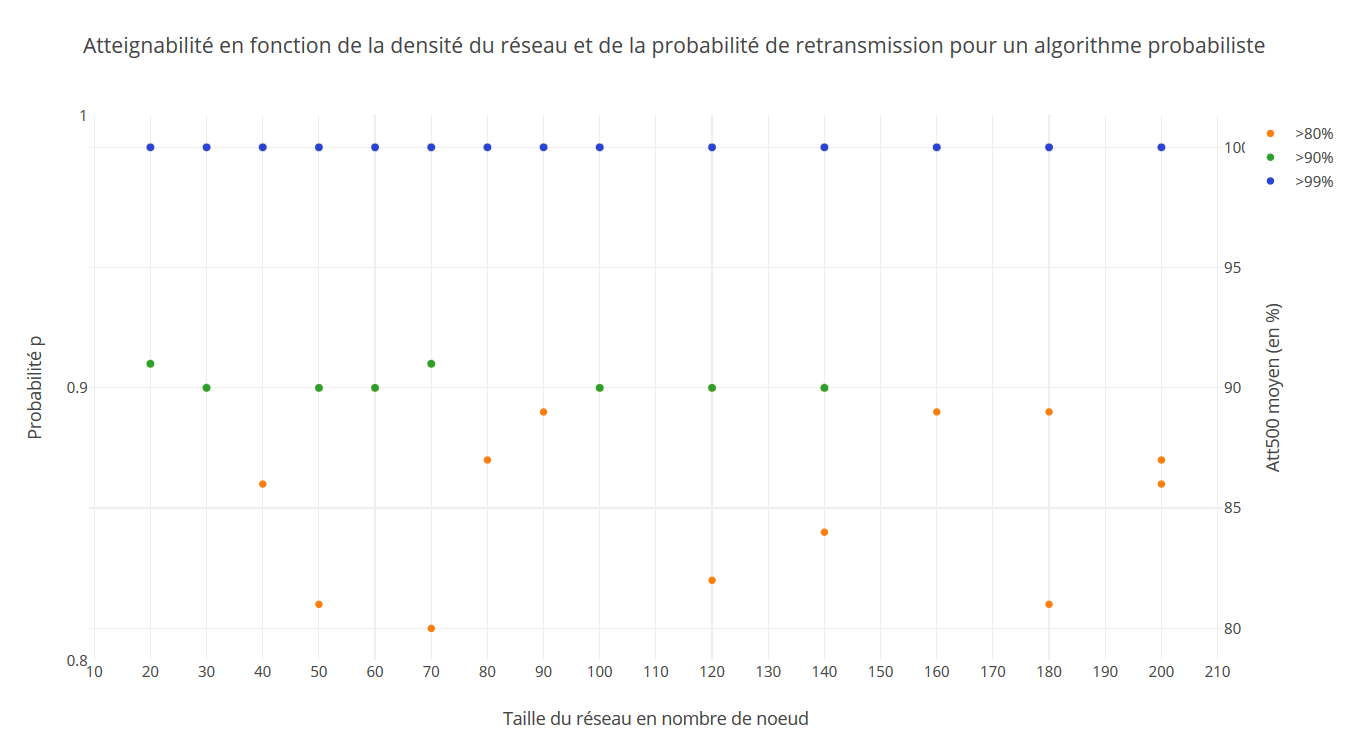
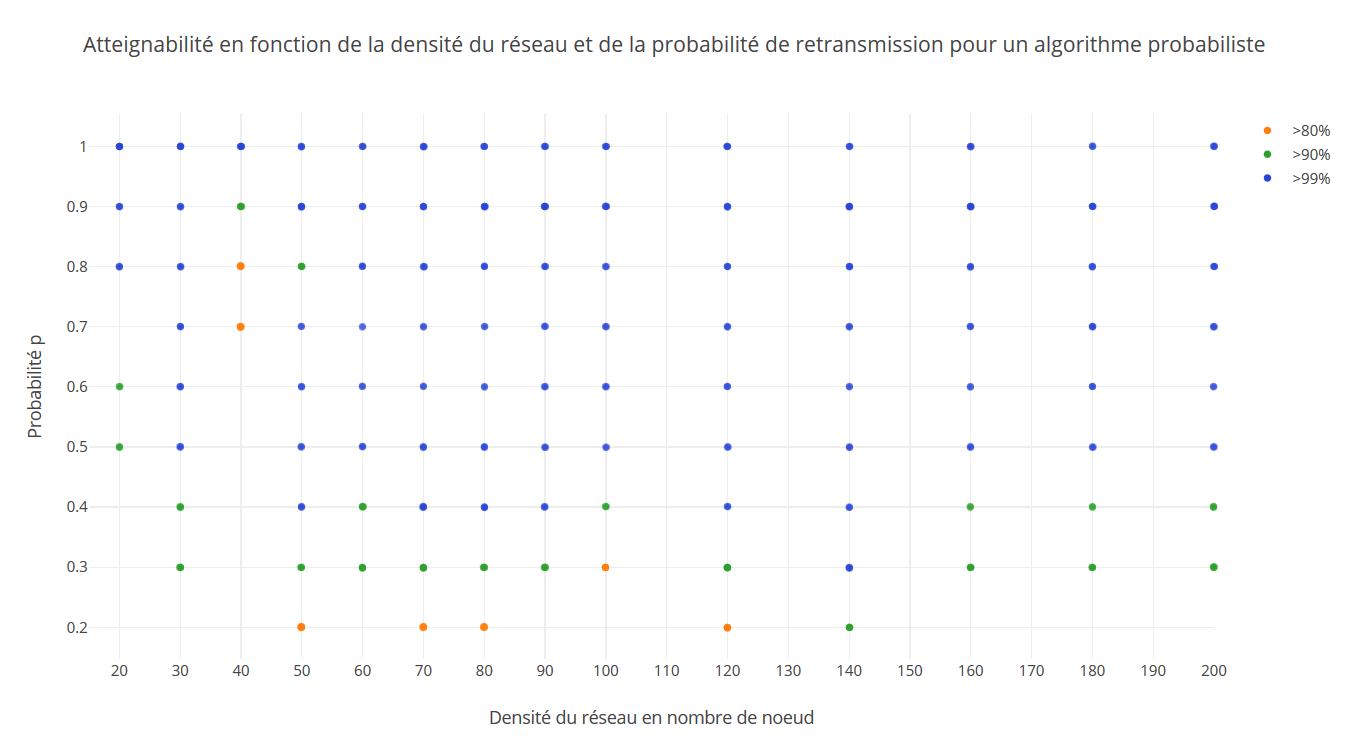
updated q5 graph + added MANIFEST

diff --git a/src/solution/exo2/EmitterDensity.java b/src/solution/exo2/EmitterDensity.java
@@ -30,7 +30,7 @@ public class EmitterDensity extends NotProbabilistEmitter {
 			NeighborProtocolImpl npi = (NeighborProtocolImpl) host.getProtocol(neighbor_pid);
 			V = npi.getNeighbors().size();
 			//p = CommonState.r.nextDouble() < k*V;
-			p = (CommonState.r.nextDouble() < k/V) ? true:false;
+			p = (CommonState.r.nextDouble() < k/V);
 			super.emit(host, msg, p);		
 		}
 		else {

diff --git a/rapport.md b/rapport.md
@@ -401,7 +401,6 @@ un algorithme probabiliste.
 |               160|            0.4|                98|
 |               180|            0.4|                97|
 |               200|            0.4|                97|
-|               200|            0.4|                97|
 |                20|            0.5|                91|
 |                30|            0.5|               100|
 |                40|            0.5|                65|
@@ -416,7 +415,6 @@ un algorithme probabiliste.
 |               160|            0.5|                99|
 |               180|            0.5|                99|
 |               200|            0.5|                99|
-|                40|            0.5|                65|
 |                20|            0.6|                92|
 |                30|            0.6|                99|
 |                40|            0.6|                71|
@@ -448,10 +446,10 @@ un algorithme probabiliste.
 |                20|            0.8|                99|
 |                30|            0.8|               100|
 |                40|            0.8|                85|
+|                50|            0.8|                98|
 |                60|            0.8|               100|
 |                70|            0.8|               100|
 |                80|            0.8|               100|
-|                10|            0.8|                98|
 |                90|            0.8|               100|
 |               100|            0.8|               100|
 |               120|            0.8|               100|
